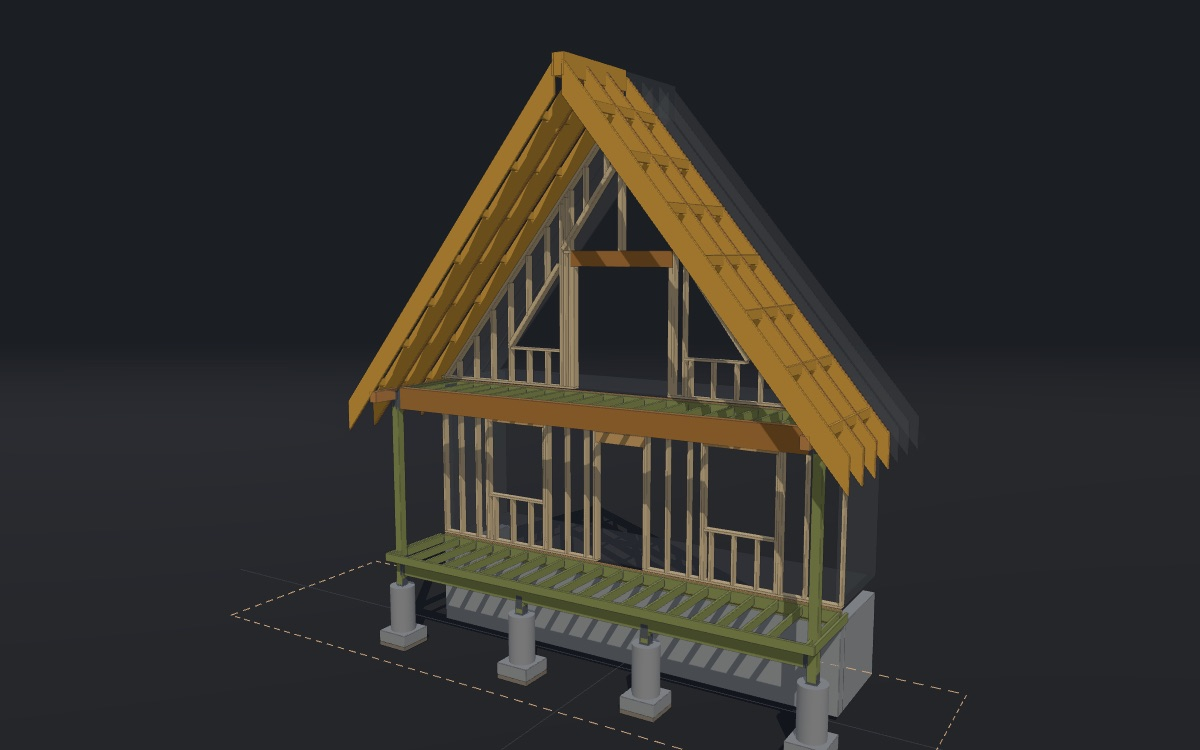
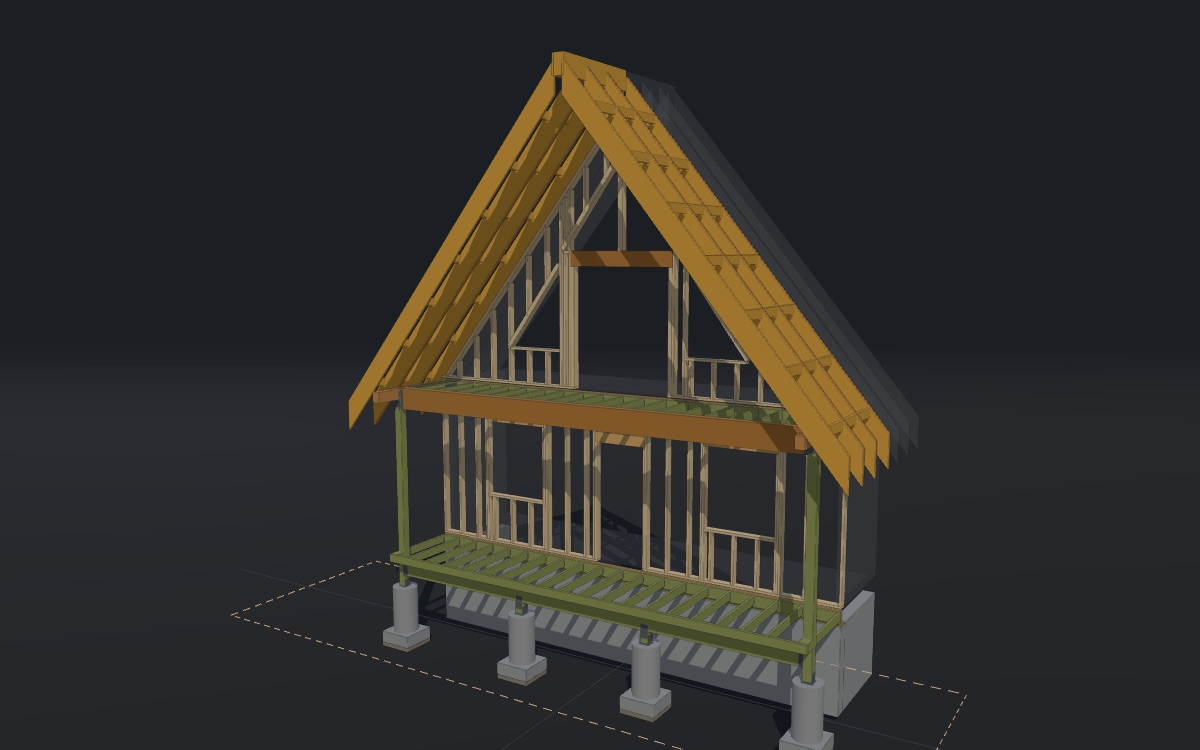
feat: front porch corners -- posts flush with the house, end joists hung on the corner posts

diff --git a/front-porch.html b/front-porch.html
@@ -1,4 +1,5 @@
 <!DOCTYPE html>
+<!-- framing-3d template version 1 -->
 <html lang="en">
 <head>
 <meta charset="UTF-8">
@@ -1542,7 +1543,8 @@ return { THREE, OrbitControls };
 
 const D = {
   HALF_W: 156,                       // 26'-0" C to A, gridline B centered
-  STATIONS: [-156, -48, 48, 156],    // posts: 0 / 9'-0" / 17'-0" / 26'-0" from gridline C
+  CORNER_X: 153.25,                  // corner posts centred 2 3/4" inside gridlines C / A: outside faces flush with the wall studs (field)
+  STATIONS: [-153.25, -48, 48, 153.25],   // posts: corner / 9'-0" / 17'-0" from gridline C / corner
   POST_LINE: 48,                     // 4'-0" from gridline 1 (unchanged)
   PORCH_EDGE: 60,                    // 5'-0" (owner decision)
   UPPER_EDGE: 51.5,                  // 4'-3 1/2" (A02)
@@ -1758,7 +1760,7 @@ const pHyp = ax => P_Y0 + (P_OUT - ax) * SLOPE;                            // y 
 // --- main-floor edge at gridline 1 ------------------------------------------------
 box(-156, 156, D.STEM_TOP, D.STEM_TOP + 1.5, -7.25, 0, M.pt, 'wall');      // PT 2X8 sill plate
 box(-156, 156, -10, -0.75, -1.5, 0, M.fram, 'wall');                       // 2X10 rim joist
-box(-156, 156, 108, 119.25, -1.5, 0, M.fram, 'wall');                      // 2X12 DF#2 upper rim (S3.2 note 3)
+box(-155.98, 155.98, 108, 119.25, -1.5, 0, M.fram, 'wall');                // 2X12 DF#2 upper rim (S3.2 note 3); ends 0.02 inside the eave beams' outer faces
 
 // --- lower wall: LOWER FLR 0 to top plate 108 ------------------------------------
 box(-156, DOOR1.x0, 0, 1.5, W0, W1, M.wall, 'wall');                       // bottom plate, cut at door 1
@@ -1832,15 +1834,16 @@ for (const s of [-1, 1]) {
 //  wall at the upper-floor rim level, ~10'-0", so their bearing is in the lower wall / rim zone.)
 // sloped double top plates under the rafters, ridge face to the eave beam inner face
 for (const s of [-1, 1]) {
-  const xa = 2.75, xb = 153.25;
+  const xa = 2.75, xb = 150.5;
   prism([[s * xa, D.roofBot(xa)], [s * xb, D.roofBot(xb)], [s * xb, D.roofBot(xb) - PLATE_PLUMB], [s * xa, D.roofBot(xa) - PLATE_PLUMB]],
         W0, W1, M.wall, 'wall');
 }
 
 // --- finishes toggle: 7/16" sheathing with the openings cut, translucent panes ----
 {
-  const outline = [[-156, 0], [156, 0], [156, D.roofBot(156)], [2.75, D.roofBot(2.75)], [2.75, D.RIDGE_BOT],
-                   [-2.75, D.RIDGE_BOT], [-2.75, D.roofBot(2.75)], [-156, D.roofBot(156)]];
+  const EBB = D.EAVE_BEAM_TOP - 7.5, EBI = D.CORNER_X - 2.75;      // notched round the 6X8 eave beams, whose outer faces sit on the stud faces
+  const outline = [[-156, 0], [156, 0], [156, EBB], [EBI, EBB], [EBI, D.roofBot(EBI)], [2.75, D.roofBot(2.75)], [2.75, D.RIDGE_BOT],
+                   [-2.75, D.RIDGE_BOT], [-2.75, D.roofBot(2.75)], [-EBI, D.roofBot(EBI)], [-EBI, EBB], [-156, EBB]];
   const rect = (x0, x1, y0, y1) => [[x0, y0], [x1, y0], [x1, y1], [x0, y1]];
   const tri = (s, leg, out, y0, y1) => [[s * leg, y0], [s * out, y0], [s * leg, y1]];
   const holes = [rect(DOOR1.x0, DOOR1.x1, 0.5, DOOR1.y1), rect(DOOR12.x0, DOOR12.x1, 120.5, DOOR12.y1)];
@@ -1856,15 +1859,15 @@ for (const s of [-1, 1]) {
 // ===========================================================================
 const LED_Z0 = D.SHEATH_T, LED_Z1 = LED_Z0 + 1.5;          // ledgers sit against the 7/16" sheathing
 const PJ_TOP = -1.5, PJ_BOT = PJ_TOP - 5.5;                  // PT2X6 joists: surface -1/2", 1" decking
-// Deck ends (owner 2026-09-22): a PT end rim, joist depth, on the OUTSIDE face of each corner post, house to front
-// edge; the front rim runs out to it; a 1x10 cedar skirt (9 1/4" tall, owner 2026-09-22 late) wraps the three open
-// sides, top tucked under the decking, hanging 3 3/4" below the 2X6 joists like the skirt on the owner's current
-// deck; the floor boards overhang the skirt 3/4" on all three open sides (owner 2026-09-22 evening). The skirt face
-// is 2 1/4" past each post face, the board ends 3" past it.
-const END_RIM_T = 1.5, SKIRT_T = 0.75, OVERHANG = 0.75;
+// Deck ends, option 3 (owner 2026-11-11): the ledger stops at the house corner; each end joist hangs from the ledger
+// to the corner post's north face, its outside face flush with the post's outside face (0.02 in, no shared plane);
+// short blocks fill from the post's front face to the front rim; the front rim runs to the post's outside face. A 1x10
+// cedar skirt (9 1/4" tall) wraps the three open sides, top tucked under the decking, hanging 3 3/4" below the 2X6
+// joists; the floor boards overhang the skirt 3/4" on all three open sides.
+const CP_IN = D.CORNER_X - 2.75, CP_OUT = D.CORNER_X + 2.75; // 150.5 / 156: corner post (and eave beam) inner / outer face
+const SKIRT_T = 0.75, OVERHANG = 0.75;
 const SKIRT_H = 9.25, SKIRT_BOT = PJ_TOP - SKIRT_H;          // 1x10 skirt: -1.5 .. -10.75
-const END_RIM_X0 = D.HALF_W + 2.75 + 0.02, END_RIM_X1 = D.HALF_W + 2.75 + END_RIM_T;   // 158.77 .. 160.25 (0.02 clear of the post face: no coincident faces)
-const DECK_END = END_RIM_X1 + SKIRT_T;                                                 // 161: outer face of the end skirt
+const DECK_END = CP_OUT + SKIRT_T;                           // 156.75: outer face of the end skirt
 const PGLB_W = 5.125, PGLB_D = 12;                           // porch drop beam, solid PT — PLACEHOLDER size, not on record
 const UGLB_W = 5.5, UGLB_D = 15;                             // upper-deck glulam — PLACEHOLDER size, not on record
 const UB_TOP = D.UPPER_FLR - 1.5, UB_BOT = UB_TOP - UGLB_D;   // 118.5 .. 103.5: TOP FLUSH with the joist tops (photos)
@@ -1888,35 +1891,43 @@ function hucHanger(xFace, dir, y0, y1, z0, z1, plateTop = y1 + 1.5) {
   box(X0, X1, y0, y1 - 1, z1, z1 + t, M.steel, 'hardware', false);                              // side
 }
 // Joist hanger at a ledger (LUS-type): seat under the joist end + two side flanges.
-function joistHanger(xc, y0, y1, zFace, dir = +1) {          // dir +1: hanger extends toward +z from the face
-  const t = 0.1, L = 1.5, za = zFace, zb = zFace + dir * L;
-  box(xc - 0.75 - t, xc + 0.75 + t, y0 - t, y0, za, zb, M.steel, 'hardware', false);
-  box(xc - 0.75 - t, xc - 0.75, y0, y1 - 1.5, za, zb, M.steel, 'hardware', false);
-  box(xc + 0.75, xc + 0.75 + t, y0, y1 - 1.5, za, zb, M.steel, 'hardware', false);
+function joistHanger(xc, y0, y1, zFace, dir = +1, xLim = Infinity) {   // dir +1: hanger extends toward +z from the face
+  const t = 0.1, L = 1.5, za = zFace, zb = zFace + dir * L;            // xLim: nothing drawn past |x| = xLim (end joists: clear of the skirt)
+  const hb = (x1, x2, ya, yb) => {                                     // box clipped to |x| <= xLim; skipped if nothing is left
+    const a = Math.max(Math.min(x1, x2), -xLim), b = Math.min(Math.max(x1, x2), xLim);
+    if (b - a > 0.01) box(a, b, ya, yb, za, zb, M.steel, 'hardware', false);
+  };
+  hb(xc - 0.75 - t, xc + 0.75 + t, y0 - t, y0);
+  hb(xc - 0.75 - t, xc - 0.75, y0, y1 - 1.5);
+  hb(xc + 0.75, xc + 0.75 + t, y0, y1 - 1.5);
 }
-// Joist from the ledger to the rim; the end joists are interrupted by the corner post on the 4'-0" line.
+// Joist from the ledger to the rim (porch) or the glulam (upper deck).
 function joistRun(xc, y0, y1, zEnd, layer, hangEnd = false) {
-  if (Math.abs(xc) > 153) {
-    box(xc - 0.75, xc + 0.75, y0, y1, LED_Z1, D.POST_LINE - 2.75, M.pt, layer);
-    box(xc - 0.75, xc + 0.75, y0, y1, D.POST_LINE + 2.75, zEnd, M.pt, layer);
-  } else box(xc - 0.75, xc + 0.75, y0, y1, LED_Z1, zEnd, M.pt, layer);
+  box(xc - 0.75, xc + 0.75, y0, y1, LED_Z1, zEnd, M.pt, layer);
   joistHanger(xc, y0, y1, LED_Z1, +1);
   if (hangEnd) joistHanger(xc, y0, y1, zEnd, -1);           // hung on the far beam face, tops flush
 }
 
 // porch framing ------------------------------------------------------------------
 box(-156, 156, PJ_TOP - 7.25, PJ_TOP, LED_Z0, LED_Z1, M.pt, 'porch');                    // PT2X8 HF#2 LEDGER (Dtl 10/S4.1)
-for (const xc of JOIST_X) joistRun(xc, PJ_BOT, PJ_TOP, D.PORCH_EDGE - 1.5, 'porch');      // PT2X6 HF#2 @ 16" o.c.
-box(-END_RIM_X1, END_RIM_X1, PJ_BOT, PJ_TOP, D.PORCH_EDGE - 1.5, D.PORCH_EDGE, M.pt, 'porch');   // PT2X6 rim at 5'-0", out to the end rims
-for (const s of [-1, 1])                                                                  // PT2X6 END RIMS on the corner posts' outer faces, sheathing face to the front rim's back face
-  box(s * END_RIM_X0, s * END_RIM_X1, PJ_BOT, PJ_TOP, LED_Z0, D.PORCH_EDGE - 1.5, M.pt, 'porch');
+for (const xc of JOIST_X) if (Math.abs(xc) < 153) joistRun(xc, PJ_BOT, PJ_TOP, D.PORCH_EDGE - 1.5, 'porch');   // PT2X6 HF#2 @ 16" o.c.
+box(-CP_OUT, CP_OUT, PJ_BOT, PJ_TOP, D.PORCH_EDGE - 1.5, D.PORCH_EDGE, M.pt, 'porch');   // PT2X6 rim at 5'-0", out to the post's outside face
+for (const s of [-1, 1]) {
+  // PT2X6 END JOIST: ledger to the corner post's north face, outside face 0.02 inside the post's (155.98)
+  const xc = s * (CP_OUT - 0.02 - 0.75), zPost = D.POST_LINE - 2.75;
+  box(xc - 0.75, xc + 0.75, PJ_BOT, PJ_TOP, LED_Z1, zPost, M.pt, 'porch');
+  const hLim = CP_OUT - 0.02;                                                             // 155.98: hangers stop 0.02 short of the skirt (no outer side flange)
+  joistHanger(xc, PJ_BOT, PJ_TOP, LED_Z1, +1, hLim);                                      // joist hanger at the ledger
+  joistHanger(xc, PJ_BOT, PJ_TOP, zPost, -1, hLim);                                       // face-mount hanger on the post's north face
+  // PT2X6 BLOCKING, post's front face to the front rim's back face; inner face 0.02 off the porch-beam hanger plate's plane
+  box(s * (CP_IN + 0.02), s * CP_OUT, PJ_BOT, PJ_TOP, D.POST_LINE + 2.75, D.PORCH_EDGE - 1.5, M.pt, 'porch');
+}
 // PORCH DROP BEAM: solid pressure-treated (owner 2026-09-22; S3.1 drew a PT4X6), 5 1/8 x 12 placeholder size;
 // one 26'-0" member hung on the corner posts, still bearing on the two center posts, which stop under it
 {
-  const xa = -153.25, xb = 153.25;
-  box(xa, xb, PB_BOT, PB_TOP, BZ0, BZ1, M.pt, 'porch');
-  hucHanger(xa, +1, PB_BOT, PB_TOP, BZ0, BZ1);
-  hucHanger(xb, -1, PB_BOT, PB_TOP, BZ0, BZ1);
+  box(-(CP_IN - 0.02), CP_IN - 0.02, PB_BOT, PB_TOP, BZ0, BZ1, M.pt, 'porch');   // 0.02 clear of the post inner faces
+  hucHanger(-CP_IN, +1, PB_BOT, PB_TOP, BZ0, BZ1);
+  hucHanger(CP_IN, -1, PB_BOT, PB_TOP, BZ0, BZ1);
   for (const xs of [-48, 48]) {                       // post cap under the porch beam (schematic)
     box(xs - 3, xs + 3, PB_BOT - 0.15, PB_BOT + 0.15, D.POST_LINE - 3, D.POST_LINE + 3, M.steel, 'hardware', false);
     for (const q of [-1, 1]) {
@@ -1930,7 +1941,7 @@ for (const s of [-1, 1])                                                        
 // which bear on their tops (owner's field photo 2026-09-22; supersedes the 2026-09-01 reading that they stopped
 // under the upper-deck glulam with a post cap); the two center posts stop under the porch beam.
 for (const xs of D.STATIONS) {
-  const corner = Math.abs(xs) === 156;
+  const corner = Math.abs(xs) === D.CORNER_X;
   const top = corner ? EB_BOT : PB_BOT;
   box(xs - 2.75, xs + 2.75, D.POST_BOT, top, D.POST_LINE - 2.75, D.POST_LINE + 2.75, M.pt, 'porch');
   if (corner) {                                        // post cap at the eave-beam bearing (schematic, black in the photos)
@@ -1950,12 +1961,12 @@ for (const xs of D.STATIONS) {
   bar(V(xs, D.PLINTH_TOP - 5, D.POST_LINE), V(xs, D.PLINTH_TOP + 0.15, D.POST_LINE), 0.31, M.steel, 'hardware');
 }
 
-// finishes toggle: 1" decking placeholder overhanging the skirt 3/4" on the three open sides (x +/-161 3/4, front edge
-// z 61 1/2), and the 1x10 cedar skirt tucked under it (front board full width, end boards butt its back face; tops at the
-// decking underside like the joists and end rims, bottoms 9 1/4" down at -10.75, 3 3/4" below the joists)
+// finishes toggle: 1" decking placeholder overhanging the skirt 3/4" on the three open sides (x +/-157 1/2, front edge
+// z 61 1/2), and the 1x10 cedar skirt tucked under it (front board full width, end boards on the end joists and posts,
+// butting its back face; tops at the decking underside like the joists, bottoms 9 1/4" down at -10.75, 3 3/4" below the joists)
 box(-(DECK_END + OVERHANG), DECK_END + OVERHANG, PJ_TOP, -0.5, LED_Z0, D.PORCH_EDGE + SKIRT_T + OVERHANG, M.deck, 'finish', false);
 box(-DECK_END, DECK_END, SKIRT_BOT, PJ_TOP, D.PORCH_EDGE, D.PORCH_EDGE + SKIRT_T, M.deck, 'finish');          // front skirt
-for (const s of [-1, 1]) box(s * END_RIM_X1, s * DECK_END, SKIRT_BOT, PJ_TOP, LED_Z0, D.PORCH_EDGE, M.deck, 'finish');   // end skirts
+for (const s of [-1, 1]) box(s * CP_OUT, s * DECK_END, SKIRT_BOT, PJ_TOP, LED_Z0, D.PORCH_EDGE, M.deck, 'finish');   // end skirts
 
 // ===========================================================================
 // 3. UPPER DECK at UPPER FLR 10'-0" — unchanged, 4'-3 1/2" deep (layer 'upper')
@@ -1963,30 +1974,30 @@ for (const s of [-1, 1]) box(s * END_RIM_X1, s * DECK_END, SKIRT_BOT, PJ_TOP, LE
 const UJ_TOP = D.UPPER_FLR - 1.5, UJ_BOT = UJ_TOP - 5.5;     // PT2X6 joists: 118.5 .. 113
 // deck framing stops just inside the 6X8 eave beams on gridlines A / C, which run at the same level.
 // Joists span from the ledger to the glulam and HANG on its inner face with tops flush (photos) — no rim.
-const UX = 152.25, UJOIST_X = JOIST_X.map(x => Math.abs(x) > 153 ? Math.sign(x) * 151.5 : x);
+const UX = CP_IN - 1, UJOIST_X = JOIST_X.map(x => Math.abs(x) > 153 ? Math.sign(x) * (UX - 0.75) : x);   // 149.5: 1" inside the eave beams
 const UGLB_Z0 = D.POST_LINE - UGLB_W / 2, UGLB_Z1 = D.POST_LINE + UGLB_W / 2;
 box(-UX, UX, UJ_TOP - 7.25, UJ_TOP, LED_Z0, LED_Z1, M.pt, 'upper');                      // PT2X8 HF#2 LEDGER (Dtl 10/S4.1)
 for (const xc of UJOIST_X) joistRun(xc, UJ_BOT, UJ_TOP, UGLB_Z0, 'upper', true);          // PT2X6 HF#2 @ 16" o.c.
-// GLULAM flush beam spanning between the corner posts' INNER faces (x +/-153.25, 0.02 clear), hung on each post with a
+// GLULAM flush beam spanning between the corner posts' INNER faces (x +/-150.5, 0.02 clear), hung on each post with a
 // face-mount bracket -- type not on record, field verify (owner's field photo 2026-09-22; supersedes the 2026-09-01
 // reading that it ran over the post tops on post caps) — replaces S3.2's PT4X8. The back plates stop 2" under the
 // glulam top so they stay inside the post and the eave beam bearing on it.
-box(-(153.25 - 0.02), 153.25 - 0.02, UB_BOT, UB_TOP, UGLB_Z0, UGLB_Z1, M.glb, 'upper');
-hucHanger(-153.25, +1, UB_BOT, UB_TOP, UGLB_Z0, UGLB_Z1, UB_TOP - 2);
-hucHanger(153.25, -1, UB_BOT, UB_TOP, UGLB_Z0, UGLB_Z1, UB_TOP - 2);
+box(-(CP_IN - 0.02), CP_IN - 0.02, UB_BOT, UB_TOP, UGLB_Z0, UGLB_Z1, M.glb, 'upper');
+hucHanger(-CP_IN, +1, UB_BOT, UB_TOP, UGLB_Z0, UGLB_Z1, UB_TOP - 2);
+hucHanger(CP_IN, -1, UB_BOT, UB_TOP, UGLB_Z0, UGLB_Z1, UB_TOP - 2);
 // DTT2Z tension ties (Dtl 11/S4.1): two per deck, within 24" of each deck edge — schematic straps on a joist
 for (const xc of [-140, 140]) box(xc + 0.75, xc + 0.85, UJ_BOT + 1, UJ_TOP - 1, LED_Z1 + 0.5, LED_Z1 + 14, M.steel, 'hardware', false);
 
 // finishes toggle: decking + face-mounted cable railing 2'-6 1/2" above UPPER FLR (A03, keynote 0560)
 box(-UX, UX, UJ_TOP, D.UPPER_FLR - 0.5, LED_Z0, D.UPPER_EDGE, M.deck, 'finish', false);
 { // wood guard as photographed: posts and balusters standing on the deck just inside the glulam face
-  const DK = D.UPPER_FLR - 0.5, RT = DK + 36, zr = UGLB_Z0 - 2.25, RP = [-150, -105, -57, -9, 9, 57, 105, 150];
+  const DK = D.UPPER_FLR - 0.5, RT = DK + 36, zr = UGLB_Z0 - 2.25, RP = [-(UX - 2.25), -105, -57, -9, 9, 57, 105, UX - 2.25];
   for (const xp of RP) box(xp - 1.75, xp + 1.75, DK, RT, zr - 1.75, zr + 1.75, M.pt, 'finish', false);      // 4x4 posts
   box(-UX, UX, RT - 1.5, RT, zr - 2.75, zr + 2.75, M.pt, 'finish', false);                                    // top rail
   box(-UX, UX, DK + 3, DK + 4.5, zr - 0.75, zr + 0.75, M.pt, 'finish', false);                                // bottom rail
   for (let x = -UX + 5; x < UX - 3; x += 4.5) box(x - 0.75, x + 0.75, DK + 4.5, RT - 1.5, zr - 0.75, zr + 0.75, M.pt, 'finish', false);
   for (const s of [-1, 1]) {                                                                                  // end guards at A and C
-    const xf = s * 150;
+    const xf = s * (UX - 2.25);
     box(xf - 2.75, xf + 2.75, RT - 1.5, RT, LED_Z1, zr, M.pt, 'finish', false);
     box(xf - 0.75, xf + 0.75, DK + 3, DK + 4.5, LED_Z1, zr, M.pt, 'finish', false);
     for (let z = LED_Z1 + 3; z < zr - 3; z += 4.5) box(xf - 0.75, xf + 0.75, DK + 4.5, RT - 1.5, z - 0.75, z + 0.75, M.pt, 'finish', false);
@@ -2042,7 +2053,7 @@ for (const z0 of [-24.75, -48.75, -72.75]) for (const s of [-1, 1]) rafter(s, z0
 // post face to the roof edge (owner's field photo 2026-09-22; the 2026-09-01 drawing broke them around the glulam and
 // flagged the stub past it). The top sits ~1/2" under the placeholder glulam's top (117.9 vs 118.5).
 for (const s of [-1, 1]) {
-  const x0 = s * 156 - 2.75, x1 = s * 156 + 2.75;
+  const x0 = s * D.CORNER_X - 2.75, x1 = s * D.CORNER_X + 2.75;   // +/-(150.5 .. 156): outer face on the stud face
   box(x0, x1, EB_BOT, D.EAVE_BEAM_TOP, W0, D.ROOF_EDGE, M.roof, 'roof');
 }
 // finishes toggle: TIMBER BOXES (owner 2026-09-24) -- 3/4" rough-sawn cedar, mitred corners, 0.02" off the wood they
@@ -2069,7 +2080,7 @@ for (const s of [-1, 1]) {
     return reg(m, 'finish');
   };
   for (const o of [-1, 1]) {
-    const xc = o * 156, zc = D.POST_LINE, P = (dx, dz) => [xc + o * dx, zc + dz];
+    const xc = o * D.CORNER_X, zc = D.POST_LINE, P = (dx, dz) => [xc + o * dx, zc + dz];
     const X = (dx0, dx1) => [Math.min(xc + o * dx0, xc + o * dx1), Math.max(xc + o * dx0, xc + o * dx1)];
     // post: a full ring from the decking to the bracket; above it the outer board and the two side boards, cut square at xCut
     vprism([P(-a, -a), P(a, -a), P(a, a), P(-a, a)], -0.5 + C, yCut, [P(-b, -b), P(b, -b), P(b, b), P(-b, b)]);
@@ -2187,15 +2198,16 @@ const FLAGT = { flag: true };
   const RZ = 45 + RW * 2 + 0.15;                                   // south face of the carrier rafter pair (z 45 .. 48)
   const EZ = D.ROOF_EDGE + 0.15;                                   // roof edge: barge pair and eave-beam ends
   // porch and footings
-  tagAt(['CORNER POST (2)', 'PT6X6 HF#2 to the 6X8 eave beam', 'glulam hung on brackets, FIELD VERIFY', 'ABU66Z on 5/8" x 5" Titen', 'cedar box 7" sq above the decking'], 156, 40, PZ, 'z', TF);
+  tagAt(['CORNER POST (2)', 'PT6X6 HF#2 to the 6X8 eave beam', 'glulam hung on brackets, FIELD VERIFY', 'ABU66Z on 5/8" x 5" Titen', 'cedar box 7" sq above the decking'], D.CORNER_X, 40, PZ, 'z', TF);
   tagAt(['CENTER POST (2)', 'PT6X6 HF#2, ABU66Z base', 'stops under the porch beam'], -48, -23, PZ, 'z', TF);
-  tagAt(['PORCH BEAM PT 26\'-0"', 'FIELD VERIFY size'], -135, -13, GZ, 'z', TFLAG);
+  tagAt(['PORCH BEAM PT 25\'-1"', 'FIELD VERIFY size'], -135, -13, GZ, 'z', TFLAG);
   tagAt(['PORCH JOISTS', 'PT2X6 HF#2 @ 16" o.c.', 'cantilever 12" to PT2X6 rim'], 40, -4, D.PORCH_EDGE + 0.15, 'z', TF);
-  tagAt(['END RIM PT 2X, 1x CEDAR SKIRT', 'deck ends 2 1/4" past the post', 'decking overhangs 3/4"', 'skirt 1x10, 9 1/4" under the decking'], 118, -6, D.PORCH_EDGE + SKIRT_T + 0.15, 'z', TF);
+  tagAt(['END JOIST PT2X6', 'hung on the corner post', 'skirt 1x10, 9 1/4" under the decking', 'decking overhangs 3/4"'], 118, -6, D.PORCH_EDGE + SKIRT_T + 0.15, 'z', TF);
+  tagAt(['BLOCKING, in front of the post'], 118, -25, D.PORCH_EDGE + SKIRT_T + 0.15, 'z', TF);
   tagAt(['PORCH LEDGER', 'PT2X8 HF#2, LedgerLok', 'per 10/S4.1'], -40, -5, LED_Z1 + 0.15, 'z', TF);
   tagAt(['FOOTING (4)', '24" sq x 8" pad', '18"Ø plinth, top 8" above grade'], 66, -50, D.POST_LINE + 9 + 0.15, 'z', TF);
   // upper deck
-  tagAt(['DECK GLULAM 25\'-6 1/2"', 'between the corner posts', 'FIELD VERIFY size'], 50, 111, UGZ, 'z', TFLAG);
+  tagAt(['DECK GLULAM 25\'-1"', 'between the corner posts', 'FIELD VERIFY size'], 50, 111, UGZ, 'z', TFLAG);
   tagAt(['GLULAM BRACKETS (2)', 'FIELD VERIFY type'], -135, 95, PZ, 'z', TFLAG);
   tagAt(['DECK JOISTS', 'PT2X6 HF#2 @ 16" o.c.', 'face-hung on glulam, tops flush'], -70, 111, UGZ, 'z', TF);
   tagAt(['DECK LEDGER', 'PT2X8 HF#2, LedgerLok', '(2) DTT2Z ties per 11/S4.1'], -110, 131, WZ, 'z', TF);
@@ -2212,7 +2224,7 @@ const FLAGT = { flag: true };
   tagAt(['RIDGE GLB', '5 1/2" x 24"', 'ends 4\'-0" past the wall'], 0, 318, D.RIDGE_END + 0.15, 'z', TF);
   tagAt(['RAFTERS', '2X14 DF#2 @ 24" o.c.', 'LRU210 hangers at the ridge'], -90, 210, RZ, 'z', TF);
   tagAt(['PITCH ~15:12', 'FIELD VERIFY'], -60, 246, RZ, 'z', TFLAG);
-  tagAt(['EAVE BEAM, A and C', '6X8 DF#2 on the corner post', 'continuous to the roof edge', 'cedar box 7" x 8 1/4", sides + bottom, end board'], 156, 115, EZ, 'z', TF);
+  tagAt(['EAVE BEAM, A and C', '6X8 DF#2 on the corner post', 'continuous to the roof edge', 'cedar box 7" x 8 1/4", sides + bottom, end board'], D.CORNER_X, 115, EZ, 'z', TF);
   tagAt(['RAKE EXTENSION 2\'-0"', 'framing TBD'], 100, 197, EZ, 'z', TFLAG);
 }
 // context sprites: levels and gridlines
@@ -2257,7 +2269,7 @@ layerBoxes.forEach(cb => cb.addEventListener('change', applyLayers));
 
 const VIEWS = {
   front:   { pos: [330, 215, 560], tgt: [0, 135, 25] },
-  porch:   { pos: [270, 45, 190], tgt: [125, -2, 42] },      // the east deck corner: end rim, skirt and post
+  porch:   { pos: [270, 45, 190], tgt: [125, -2, 42] },      // the east deck corner: end joist, blocking, skirt and post
   beam:    { pos: [250, 88, 250], tgt: [152, 110, 46] },     // the east corner post meeting the eave beam, glulam hung beside it (from under the rafters)
   under:   { pos: [150, 130, 320], tgt: [0, 215, 20] },
   side:    { pos: [640, 150, 120], tgt: [0, 130, 20] },
